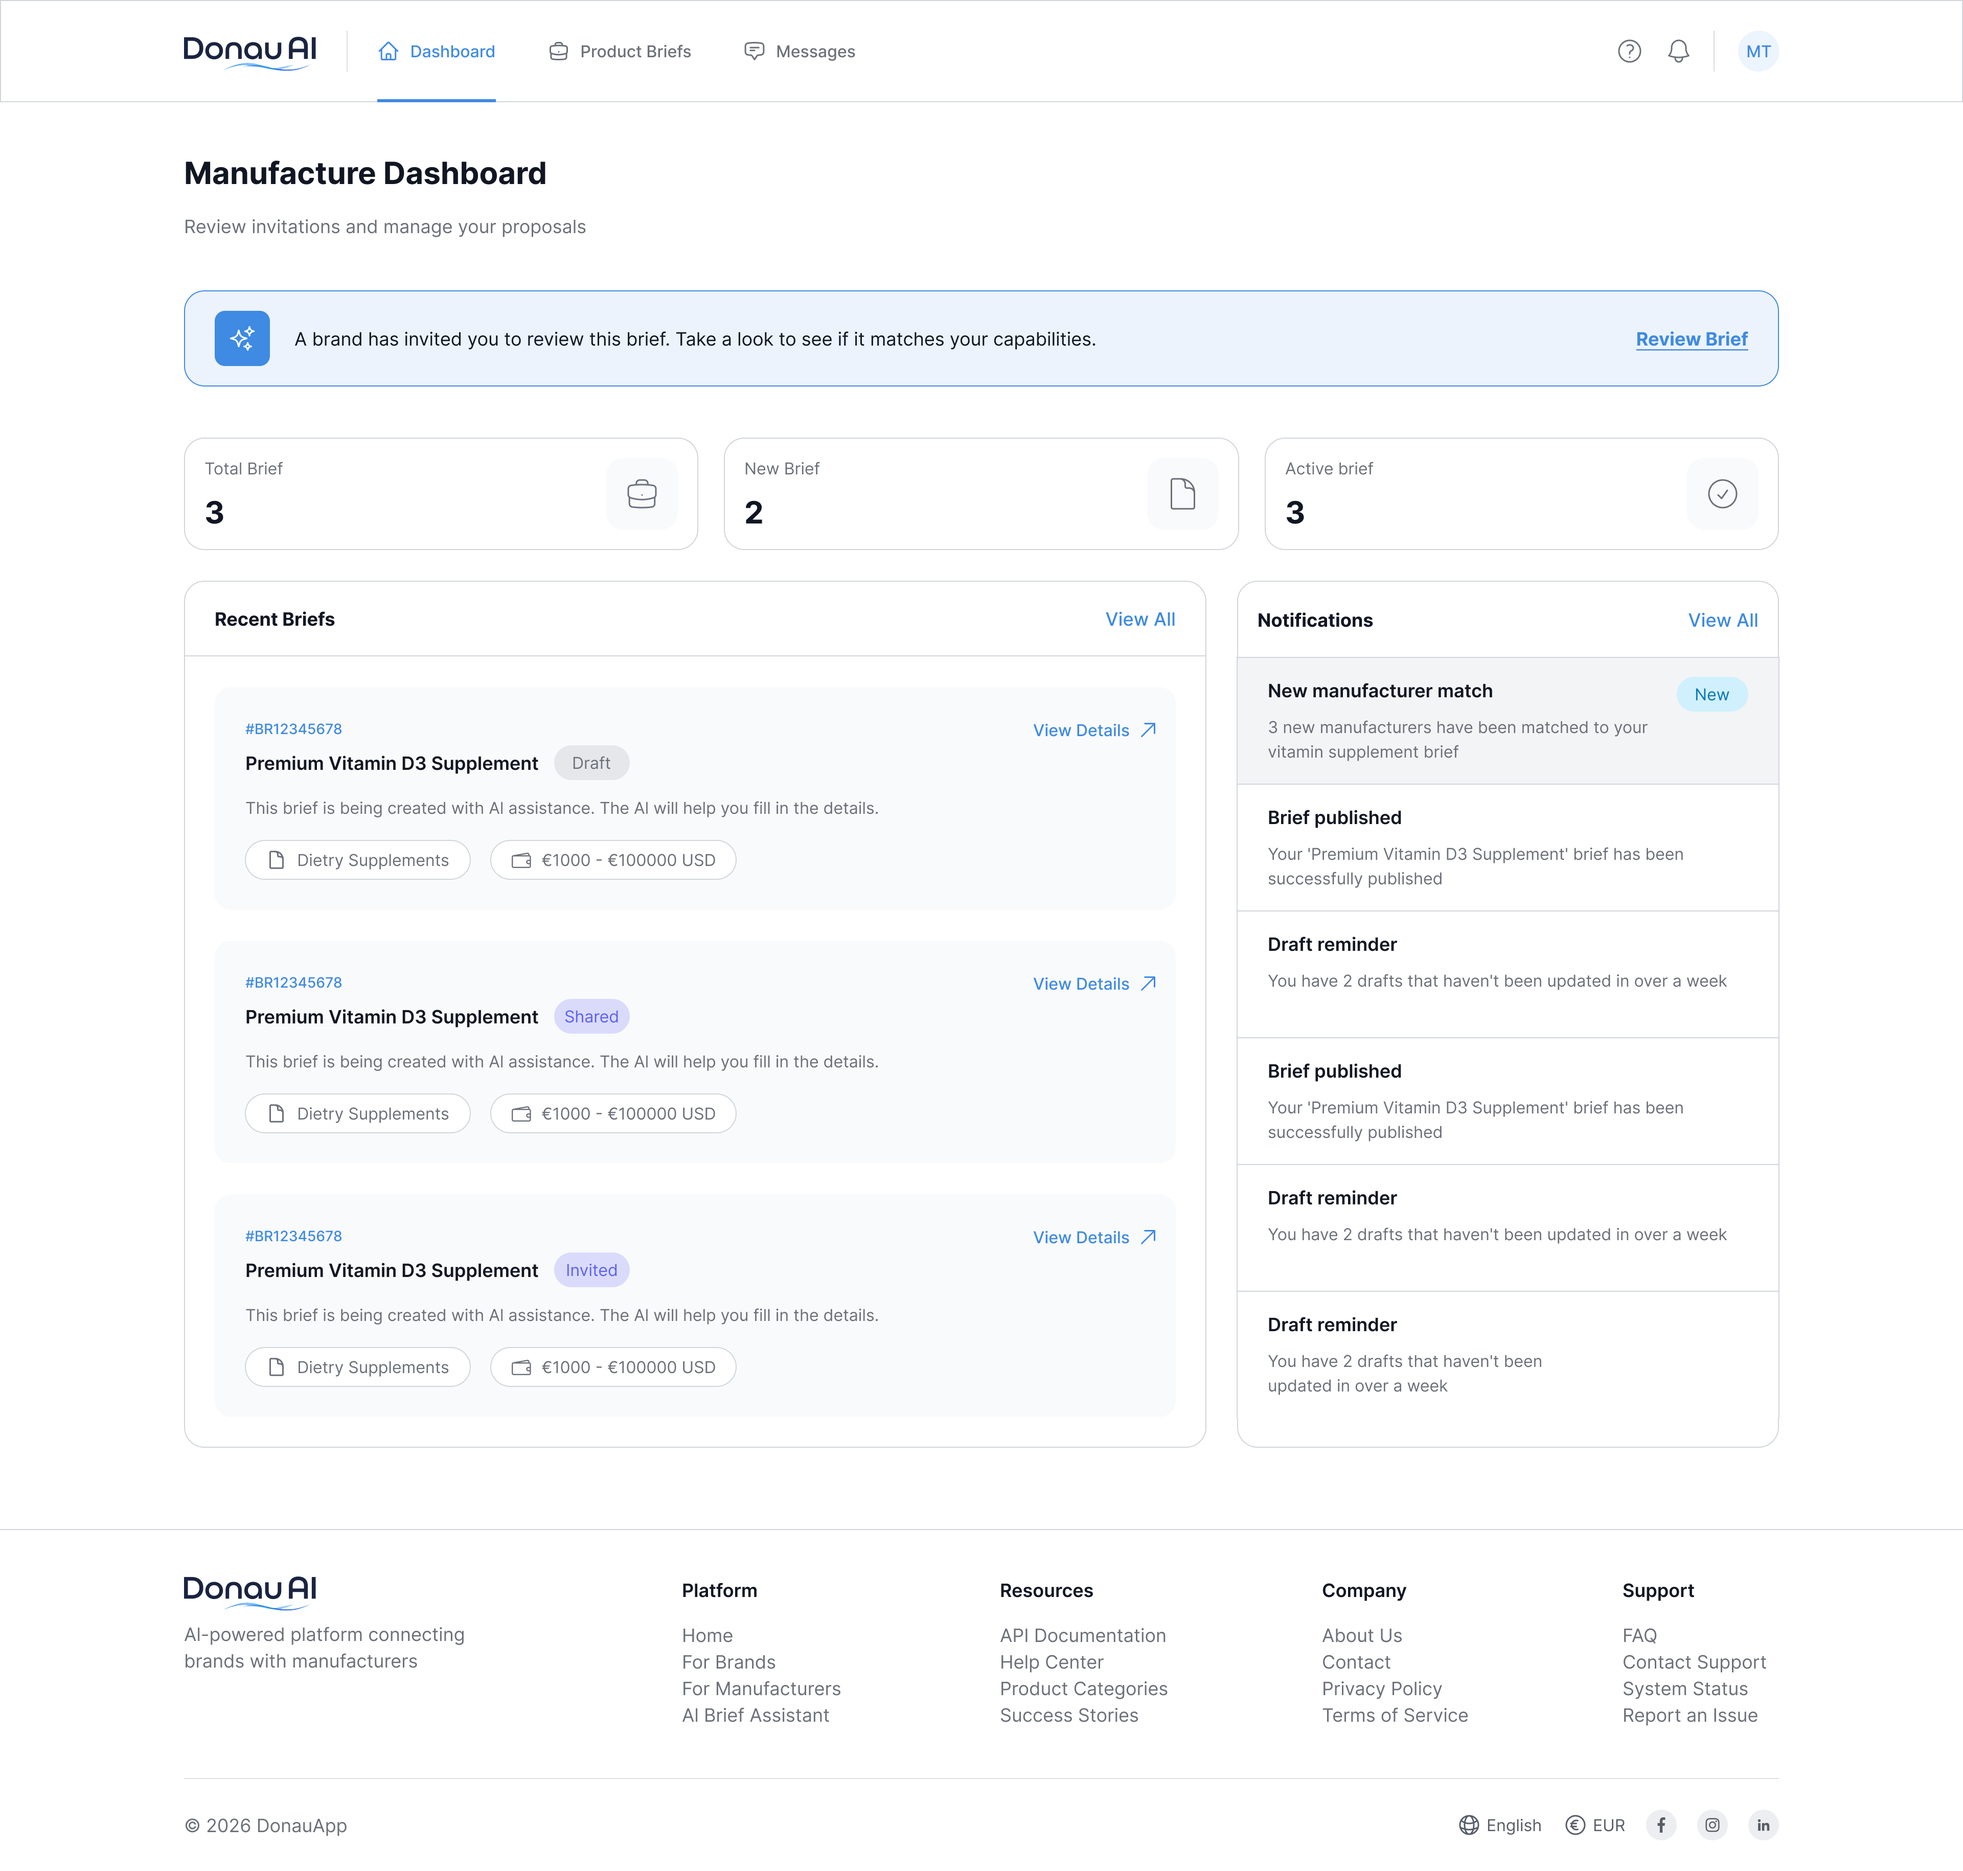
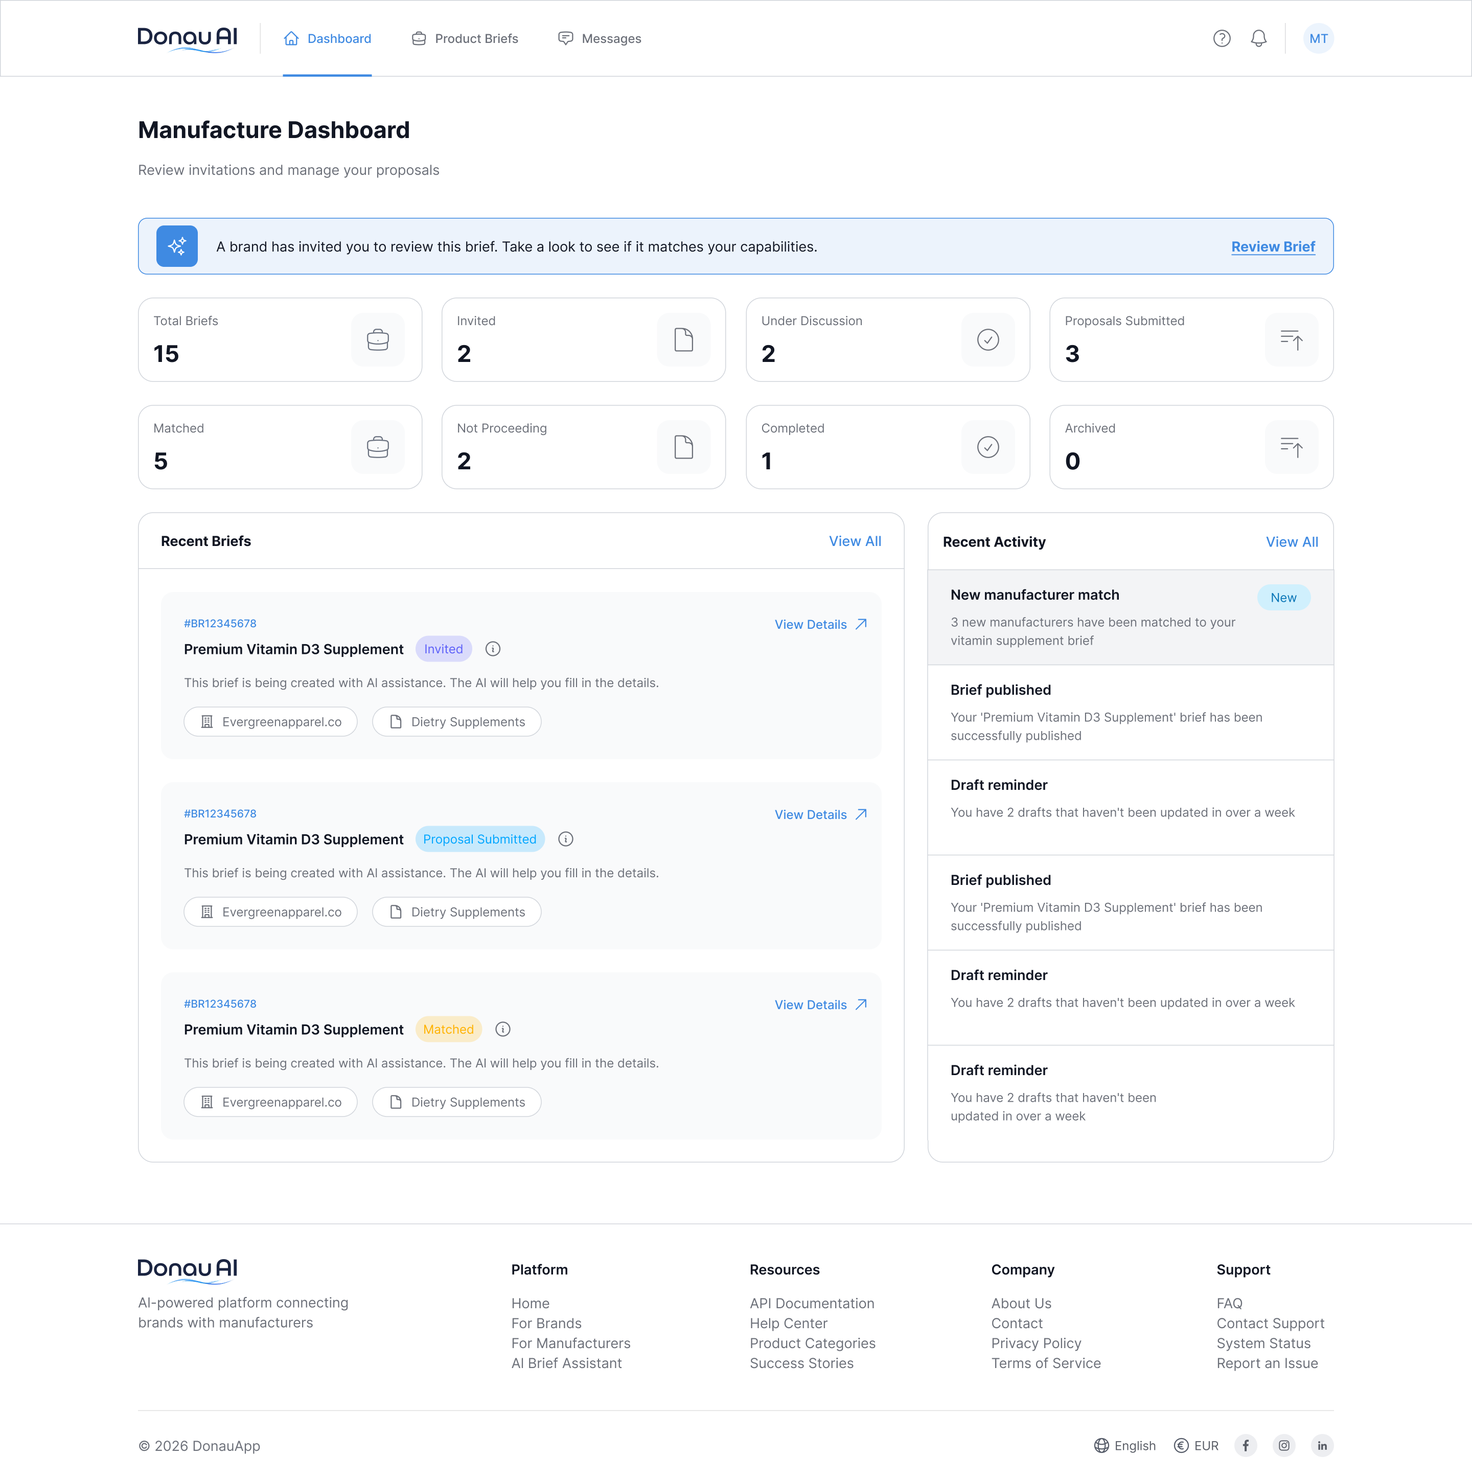
feat: update dashboard UI with responsive grid and card styling

diff --git a/dashboard-filled.html b/dashboard-filled.html
@@ -204,35 +204,85 @@
                 </div>
 
                 <!-- Stats Row -->
-                <div class="grid grid-cols-1 md:grid-cols-3 gap-6 mb-10">
-                    <!-- Total Brief -->
+                <div class="grid grid-cols-1 md:grid-cols-4 gap-6 mb-10">
+                    <!-- Total Briefs -->
                     <div class="bg-white p-6 rounded-2xl border border-gray-100 shadow-sm flex items-center justify-between">
                         <div>
-                            <span class="block text-sm font-medium text-slate-500">Total Brief</span>
-                            <span class="block text-3xl font-bold text-slate-900 mt-1">3</span>
+                            <span class="block text-sm font-medium text-slate-500">Total Briefs</span>
+                            <span class="block text-3xl font-bold text-slate-900 mt-1">15</span>
                         </div>
                         <div class="w-12 h-12 rounded-xl bg-gray-50 flex items-center justify-center text-slate-300">
                             <i class="ph ph-briefcase text-2xl"></i>
                         </div>
                     </div>
-                    <!-- New Brief -->
+                    <!-- Invited -->
                     <div class="bg-white p-6 rounded-2xl border border-gray-100 shadow-sm flex items-center justify-between">
                         <div>
-                            <span class="block text-sm font-medium text-slate-500">New Brief</span>
+                            <span class="block text-sm font-medium text-slate-500">Invited</span>
                             <span class="block text-3xl font-bold text-slate-900 mt-1">2</span>
                         </div>
                         <div class="w-12 h-12 rounded-xl bg-gray-50 flex items-center justify-center text-slate-300">
                             <i class="ph ph-file text-2xl"></i>
                         </div>
                     </div>
-                    <!-- Active Brief -->
+                    <!-- Under Discussion -->
                     <div class="bg-white p-6 rounded-2xl border border-gray-100 shadow-sm flex items-center justify-between">
                         <div>
-                            <span class="block text-sm font-medium text-slate-500">Active brief</span>
-                            <span class="block text-3xl font-bold text-slate-900 mt-1">3</span>
+                            <span class="block text-sm font-medium text-slate-500">Under Discussion</span>
+                            <span class="block text-3xl font-bold text-slate-900 mt-1">2</span>
                         </div>
                         <div class="w-12 h-12 rounded-xl bg-gray-50 flex items-center justify-center text-slate-300">
                             <i class="ph ph-check-circle text-2xl"></i>
+                        </div>
+                    </div>
+                    <!-- Proposals Submitted -->
+                    <div class="bg-white p-6 rounded-2xl border border-gray-100 shadow-sm flex items-center justify-between">
+                        <div>
+                            <span class="block text-sm font-medium text-slate-500">Proposals Submitted</span>
+                            <span class="block text-3xl font-bold text-slate-900 mt-1">3</span>
+                        </div>
+                        <div class="w-12 h-12 rounded-xl bg-gray-50 flex items-center justify-center text-slate-300">
+                            <i class="ph ph-list-dashes text-2xl"></i>
+                        </div>
+                    </div>
+                    <!-- Matched -->
+                    <div class="bg-white p-6 rounded-2xl border border-gray-100 shadow-sm flex items-center justify-between">
+                        <div>
+                            <span class="block text-sm font-medium text-slate-500">Matched</span>
+                            <span class="block text-3xl font-bold text-slate-900 mt-1">5</span>
+                        </div>
+                        <div class="w-12 h-12 rounded-xl bg-gray-50 flex items-center justify-center text-slate-300">
+                            <i class="ph ph-briefcase text-2xl"></i>
+                        </div>
+                    </div>
+                    <!-- Not Proceeding -->
+                    <div class="bg-white p-6 rounded-2xl border border-gray-100 shadow-sm flex items-center justify-between">
+                        <div>
+                            <span class="block text-sm font-medium text-slate-500">Not Proceeding</span>
+                            <span class="block text-3xl font-bold text-slate-900 mt-1">2</span>
+                        </div>
+                        <div class="w-12 h-12 rounded-xl bg-gray-50 flex items-center justify-center text-slate-300">
+                            <i class="ph ph-file-x text-2xl"></i>
+                        </div>
+                    </div>
+                    <!-- Completed -->
+                    <div class="bg-white p-6 rounded-2xl border border-gray-100 shadow-sm flex items-center justify-between">
+                        <div>
+                            <span class="block text-sm font-medium text-slate-500">Completed</span>
+                            <span class="block text-3xl font-bold text-slate-900 mt-1">1</span>
+                        </div>
+                        <div class="w-12 h-12 rounded-xl bg-gray-50 flex items-center justify-center text-slate-300">
+                            <i class="ph ph-check-circle text-2xl"></i>
+                        </div>
+                    </div>
+                    <!-- Archived -->
+                    <div class="bg-white p-6 rounded-2xl border border-gray-100 shadow-sm flex items-center justify-between">
+                        <div>
+                            <span class="block text-sm font-medium text-slate-500">Archived</span>
+                            <span class="block text-3xl font-bold text-slate-900 mt-1">0</span>
+                        </div>
+                        <div class="w-12 h-12 rounded-xl bg-gray-50 flex items-center justify-center text-slate-300">
+                            <i class="ph ph-archive text-2xl"></i>
                         </div>
                     </div>
                 </div>
@@ -259,18 +309,19 @@
                                 </div>
                                 <div class="flex items-center gap-3 mb-2">
                                     <h4 class="font-bold text-slate-900 text-lg">Premium Vitamin D3 Supplement</h4>
-                                    <span class="px-2.5 py-0.5 rounded-full bg-gray-100 text-gray-500 text-[10px] font-bold uppercase tracking-wider">Draft</span>
+                                    <span class="px-2.5 py-0.5 rounded-full bg-blue-100 text-blue-600 text-[10px] font-bold uppercase tracking-wider">Invited</span>
+                                    <i class="ph ph-info text-slate-400 text-lg"></i>
                                 </div>
                                 <p class="text-slate-500 text-sm leading-relaxed mb-4 max-w-2xl">This brief is being created with AI assistance. The AI will help you fill in the details.</p>
                                 
                                 <div class="flex flex-wrap items-center gap-3">
                                     <div class="flex items-center gap-2 px-3 py-1.5 rounded-lg border border-gray-100 bg-white">
-                                        <i class="ph ph-file-text text-slate-400"></i>
-                                        <span class="text-xs text-slate-600">Dietry Supplements</span>
+                                        <i class="ph ph-buildings text-slate-400"></i>
+                                        <span class="text-xs text-slate-600">Evergreenapparel.co</span>
                                     </div>
                                     <div class="flex items-center gap-2 px-3 py-1.5 rounded-lg border border-gray-100 bg-white">
-                                        <i class="ph ph-wallet text-slate-400"></i>
-                                        <span class="text-xs text-slate-600">€1000 - €100000 USD</span>
+                                        <i class="ph ph-file-text text-slate-400"></i>
+                                        <span class="text-xs text-slate-600">Dietry Supplements</span>
                                     </div>
                                 </div>
                             </div>
@@ -289,18 +340,19 @@
                                 </div>
                                 <div class="flex items-center gap-3 mb-2">
                                     <h4 class="font-bold text-slate-900 text-lg">Premium Vitamin D3 Supplement</h4>
-                                    <span class="px-2.5 py-0.5 rounded-full bg-blue-100 text-blue-600 text-[10px] font-bold uppercase tracking-wider">Shared</span>
+                                    <span class="px-2.5 py-0.5 rounded-full bg-sky-100 text-sky-600 text-[10px] font-bold uppercase tracking-wider">Proposal Submitted</span>
+                                    <i class="ph ph-info text-slate-400 text-lg"></i>
                                 </div>
                                 <p class="text-slate-500 text-sm leading-relaxed mb-4 max-w-2xl">This brief is being created with AI assistance. The AI will help you fill in the details.</p>
                                 
                                 <div class="flex flex-wrap items-center gap-3">
                                     <div class="flex items-center gap-2 px-3 py-1.5 rounded-lg border border-gray-100 bg-white">
-                                        <i class="ph ph-file-text text-slate-400"></i>
-                                        <span class="text-xs text-slate-600">Dietry Supplements</span>
+                                        <i class="ph ph-buildings text-slate-400"></i>
+                                        <span class="text-xs text-slate-600">Evergreenapparel.co</span>
                                     </div>
                                     <div class="flex items-center gap-2 px-3 py-1.5 rounded-lg border border-gray-100 bg-white">
-                                        <i class="ph ph-wallet text-slate-400"></i>
-                                        <span class="text-xs text-slate-600">€1000 - €100000 USD</span>
+                                        <i class="ph ph-file-text text-slate-400"></i>
+                                        <span class="text-xs text-slate-600">Dietry Supplements</span>
                                     </div>
                                 </div>
                             </div>
@@ -319,18 +371,19 @@
                                 </div>
                                 <div class="flex items-center gap-3 mb-2">
                                     <h4 class="font-bold text-slate-900 text-lg">Premium Vitamin D3 Supplement</h4>
-                                    <span class="px-2.5 py-0.5 rounded-full bg-purple-100 text-purple-600 text-[10px] font-bold uppercase tracking-wider">Invited</span>
+                                    <span class="px-2.5 py-0.5 rounded-full bg-amber-100 text-amber-600 text-[10px] font-bold uppercase tracking-wider">Matched</span>
+                                    <i class="ph ph-info text-slate-400 text-lg"></i>
                                 </div>
                                 <p class="text-slate-500 text-sm leading-relaxed mb-4 max-w-2xl">This brief is being created with AI assistance. The AI will help you fill in the details.</p>
                                 
                                 <div class="flex flex-wrap items-center gap-3">
                                     <div class="flex items-center gap-2 px-3 py-1.5 rounded-lg border border-gray-100 bg-white">
-                                        <i class="ph ph-file-text text-slate-400"></i>
-                                        <span class="text-xs text-slate-600">Dietry Supplements</span>
+                                        <i class="ph ph-buildings text-slate-400"></i>
+                                        <span class="text-xs text-slate-600">Evergreenapparel.co</span>
                                     </div>
                                     <div class="flex items-center gap-2 px-3 py-1.5 rounded-lg border border-gray-100 bg-white">
-                                        <i class="ph ph-wallet text-slate-400"></i>
-                                        <span class="text-xs text-slate-600">€1000 - €100000 USD</span>
+                                        <i class="ph ph-file-text text-slate-400"></i>
+                                        <span class="text-xs text-slate-600">Dietry Supplements</span>
                                     </div>
                                 </div>
                             </div>
@@ -338,10 +391,10 @@
 
                     </div>
 
-                    <!-- Notifications (Span 1) -->
+                    <!-- Recent Activity (Span 1) -->
                     <div class="col-span-1 border-t lg:border-t-0 lg:border-l border-gray-100 pt-8 lg:pt-0 pl-0 lg:pl-8">
                         <div class="flex justify-between items-center mb-6">
-                            <h3 class="font-bold text-slate-900 text-lg">Notifications</h3>
+                            <h3 class="font-bold text-slate-900 text-lg">Recent Activity</h3>
                             <a href="#" class="text-sm text-blue-600 font-semibold hover:text-blue-700 transition-colors">View All</a>
                         </div>
                         
